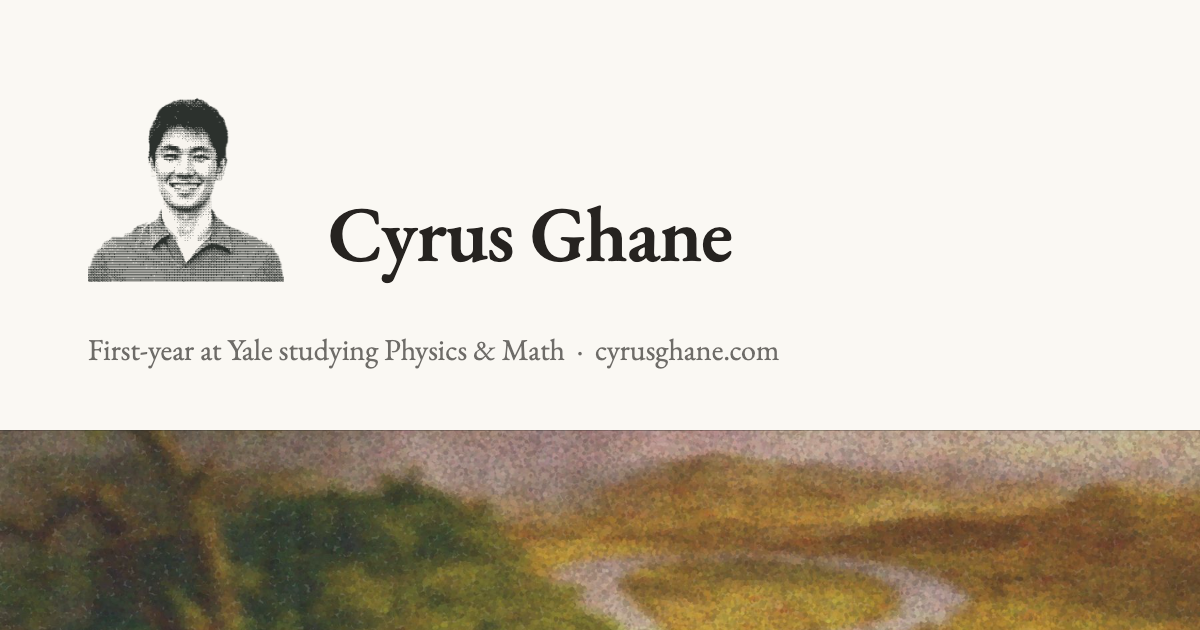
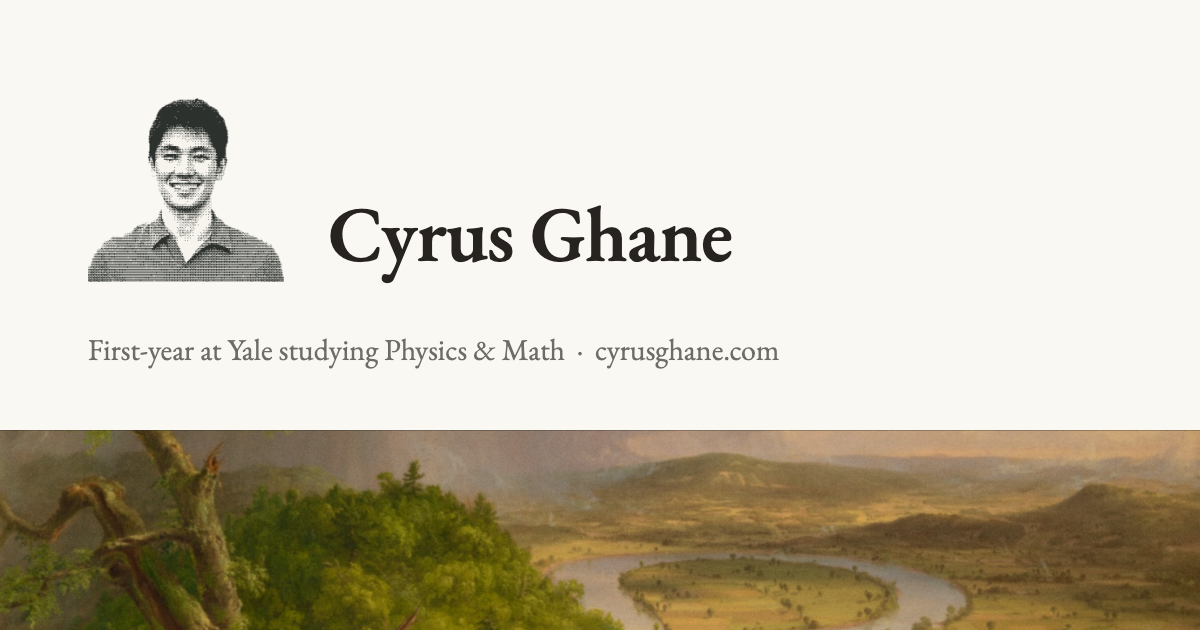
og card: the original painting

diff --git a/about/index.html b/about/index.html
@@ -16,7 +16,7 @@ gtag('config', 'G-7ZV7LSVQRZ');
 <meta property="og:description" content="First principles, physics-informed learning, sparsity, scaling laws, and emergent AI misalignment.">
 <meta property="og:type" content="website">
 <meta property="og:url" content="https://cyrusghane.com/">
-<meta property="og:image" content="https://cyrusghane.com/assets/og.png?v=1">
+<meta property="og:image" content="https://cyrusghane.com/assets/og.png?v=2">
 <meta property="og:image:width" content="1200">
 <meta property="og:image:height" content="630">
 <meta name="twitter:card" content="summary_large_image">
